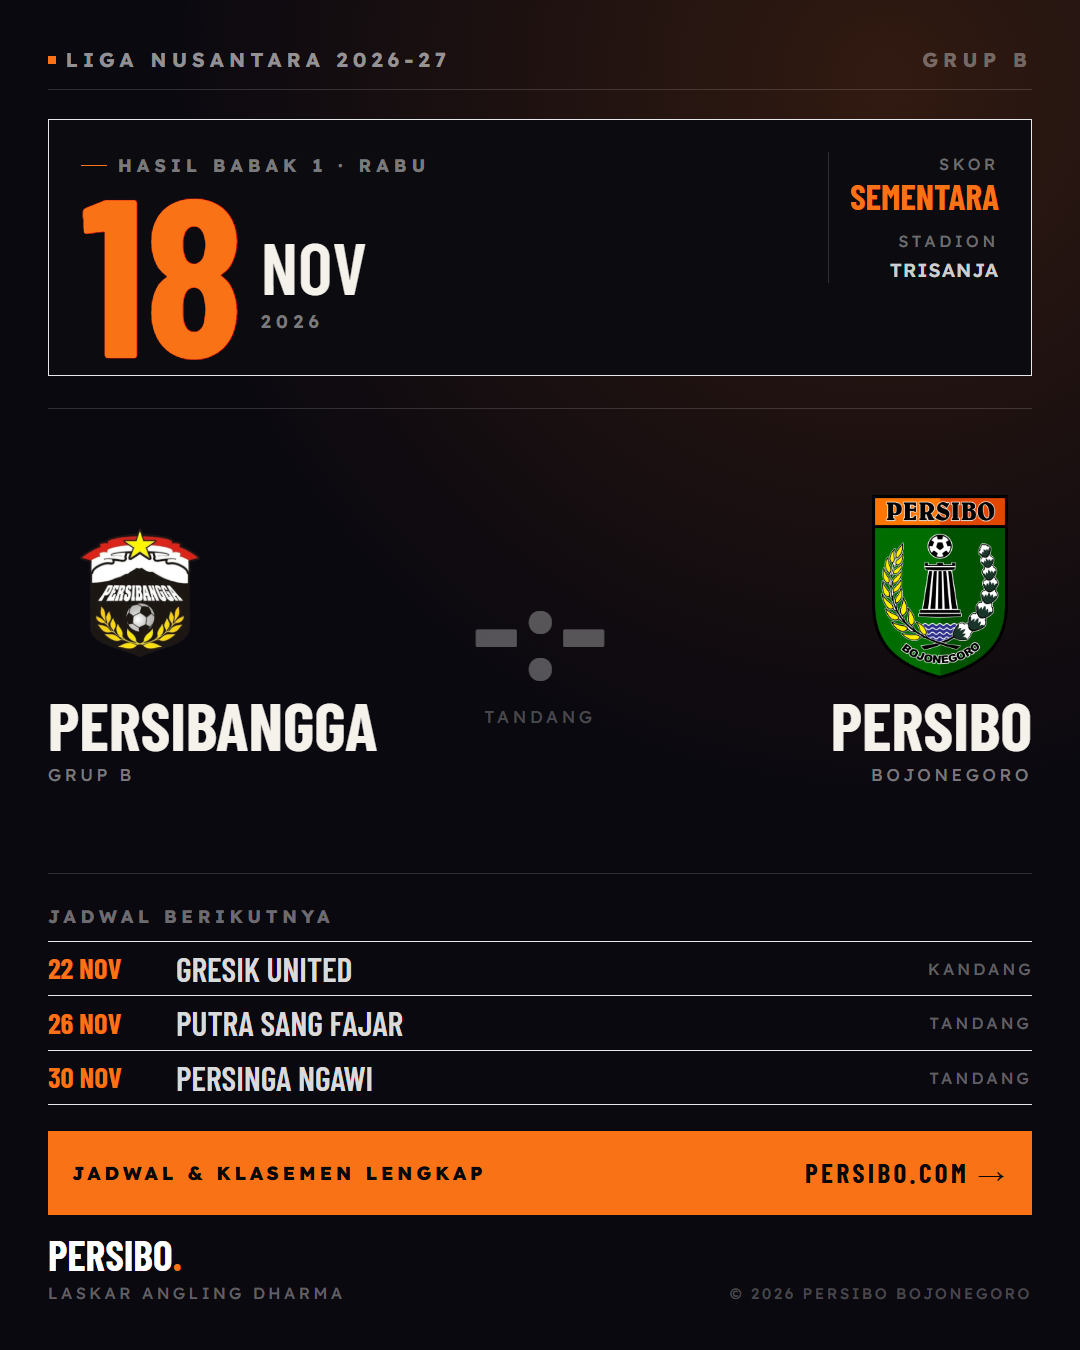
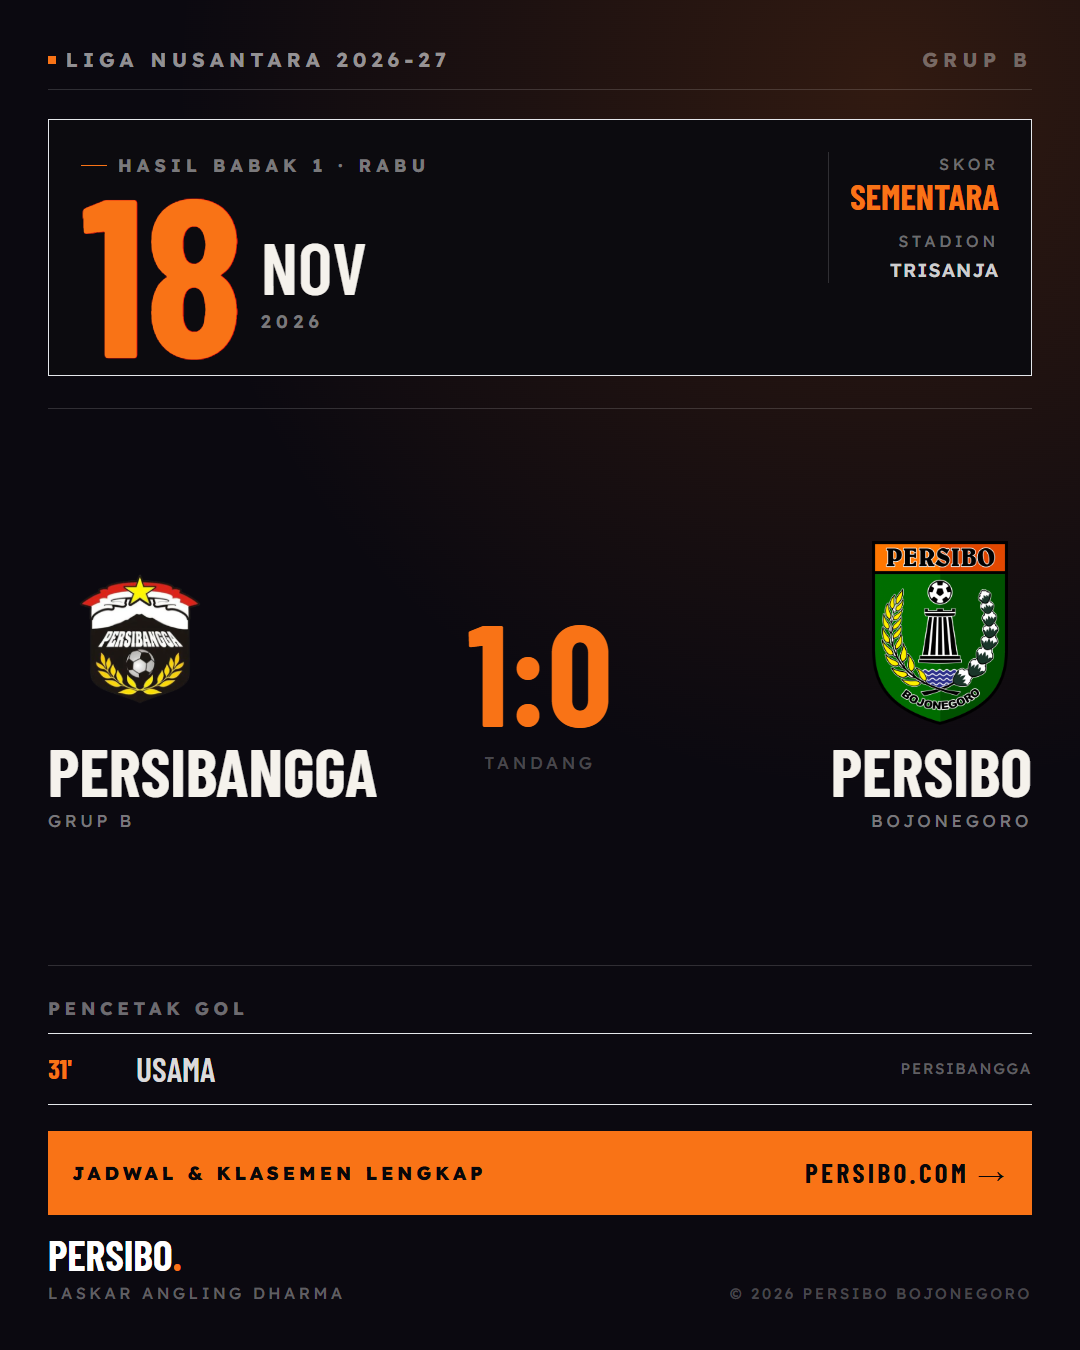
sosmed: poster hasil babak 1 terisi, kolom tim dilebarkan, caption
- Poster `hasil-babak-1-persibangga.png` kini 1:0 dengan gol USAMA menit 31; label tetap "Hasil Babak 1" dan "Skor Sementara".
- Kolom tim di baris pencetak gol dilebarkan dari 6,5 rem ke 9 rem supaya PERSIBANGGA tidak terpotong di tepi kanan.
- `posts.json` entri babak 1 berisi skor dan pencetak gol; caption nomor 11 di `social/captions.md`.

diff --git a/social/captions.md b/social/captions.md
@@ -165,6 +165,22 @@ Tandang pertama: Persibangga vs Persibo, Rabu 18 November, 15.30 WIB, Trisanja, 
 
 ---
 
+## 11. Poster hasil babak 1 (`hasil-babak-1-persibangga.png`)
+
+Babak pertama usai: Persibangga 1-0 Persibo.
+
+Gol USAMA menit 31 jadi satu-satunya gol sampai turun minum. Persibo tertinggal satu gol di Trisanja, Tegal.
+
+Babak kedua masih 45 menit. Skor dan klasemen di persibo.com.
+
+#Persibo #PersiboBojonegoro #LaskarAnglingDharma #Bojonegoro #LigaNusantara
+
+### Versi pendek (story / X)
+
+Babak pertama: Persibangga 1-0 Persibo. Gol USAMA menit 31.
+
+---
+
 ## Catatan
 
 - Jangan pakai kata "resmi", "official", atau "rebranding" — situs ini penggemar.
